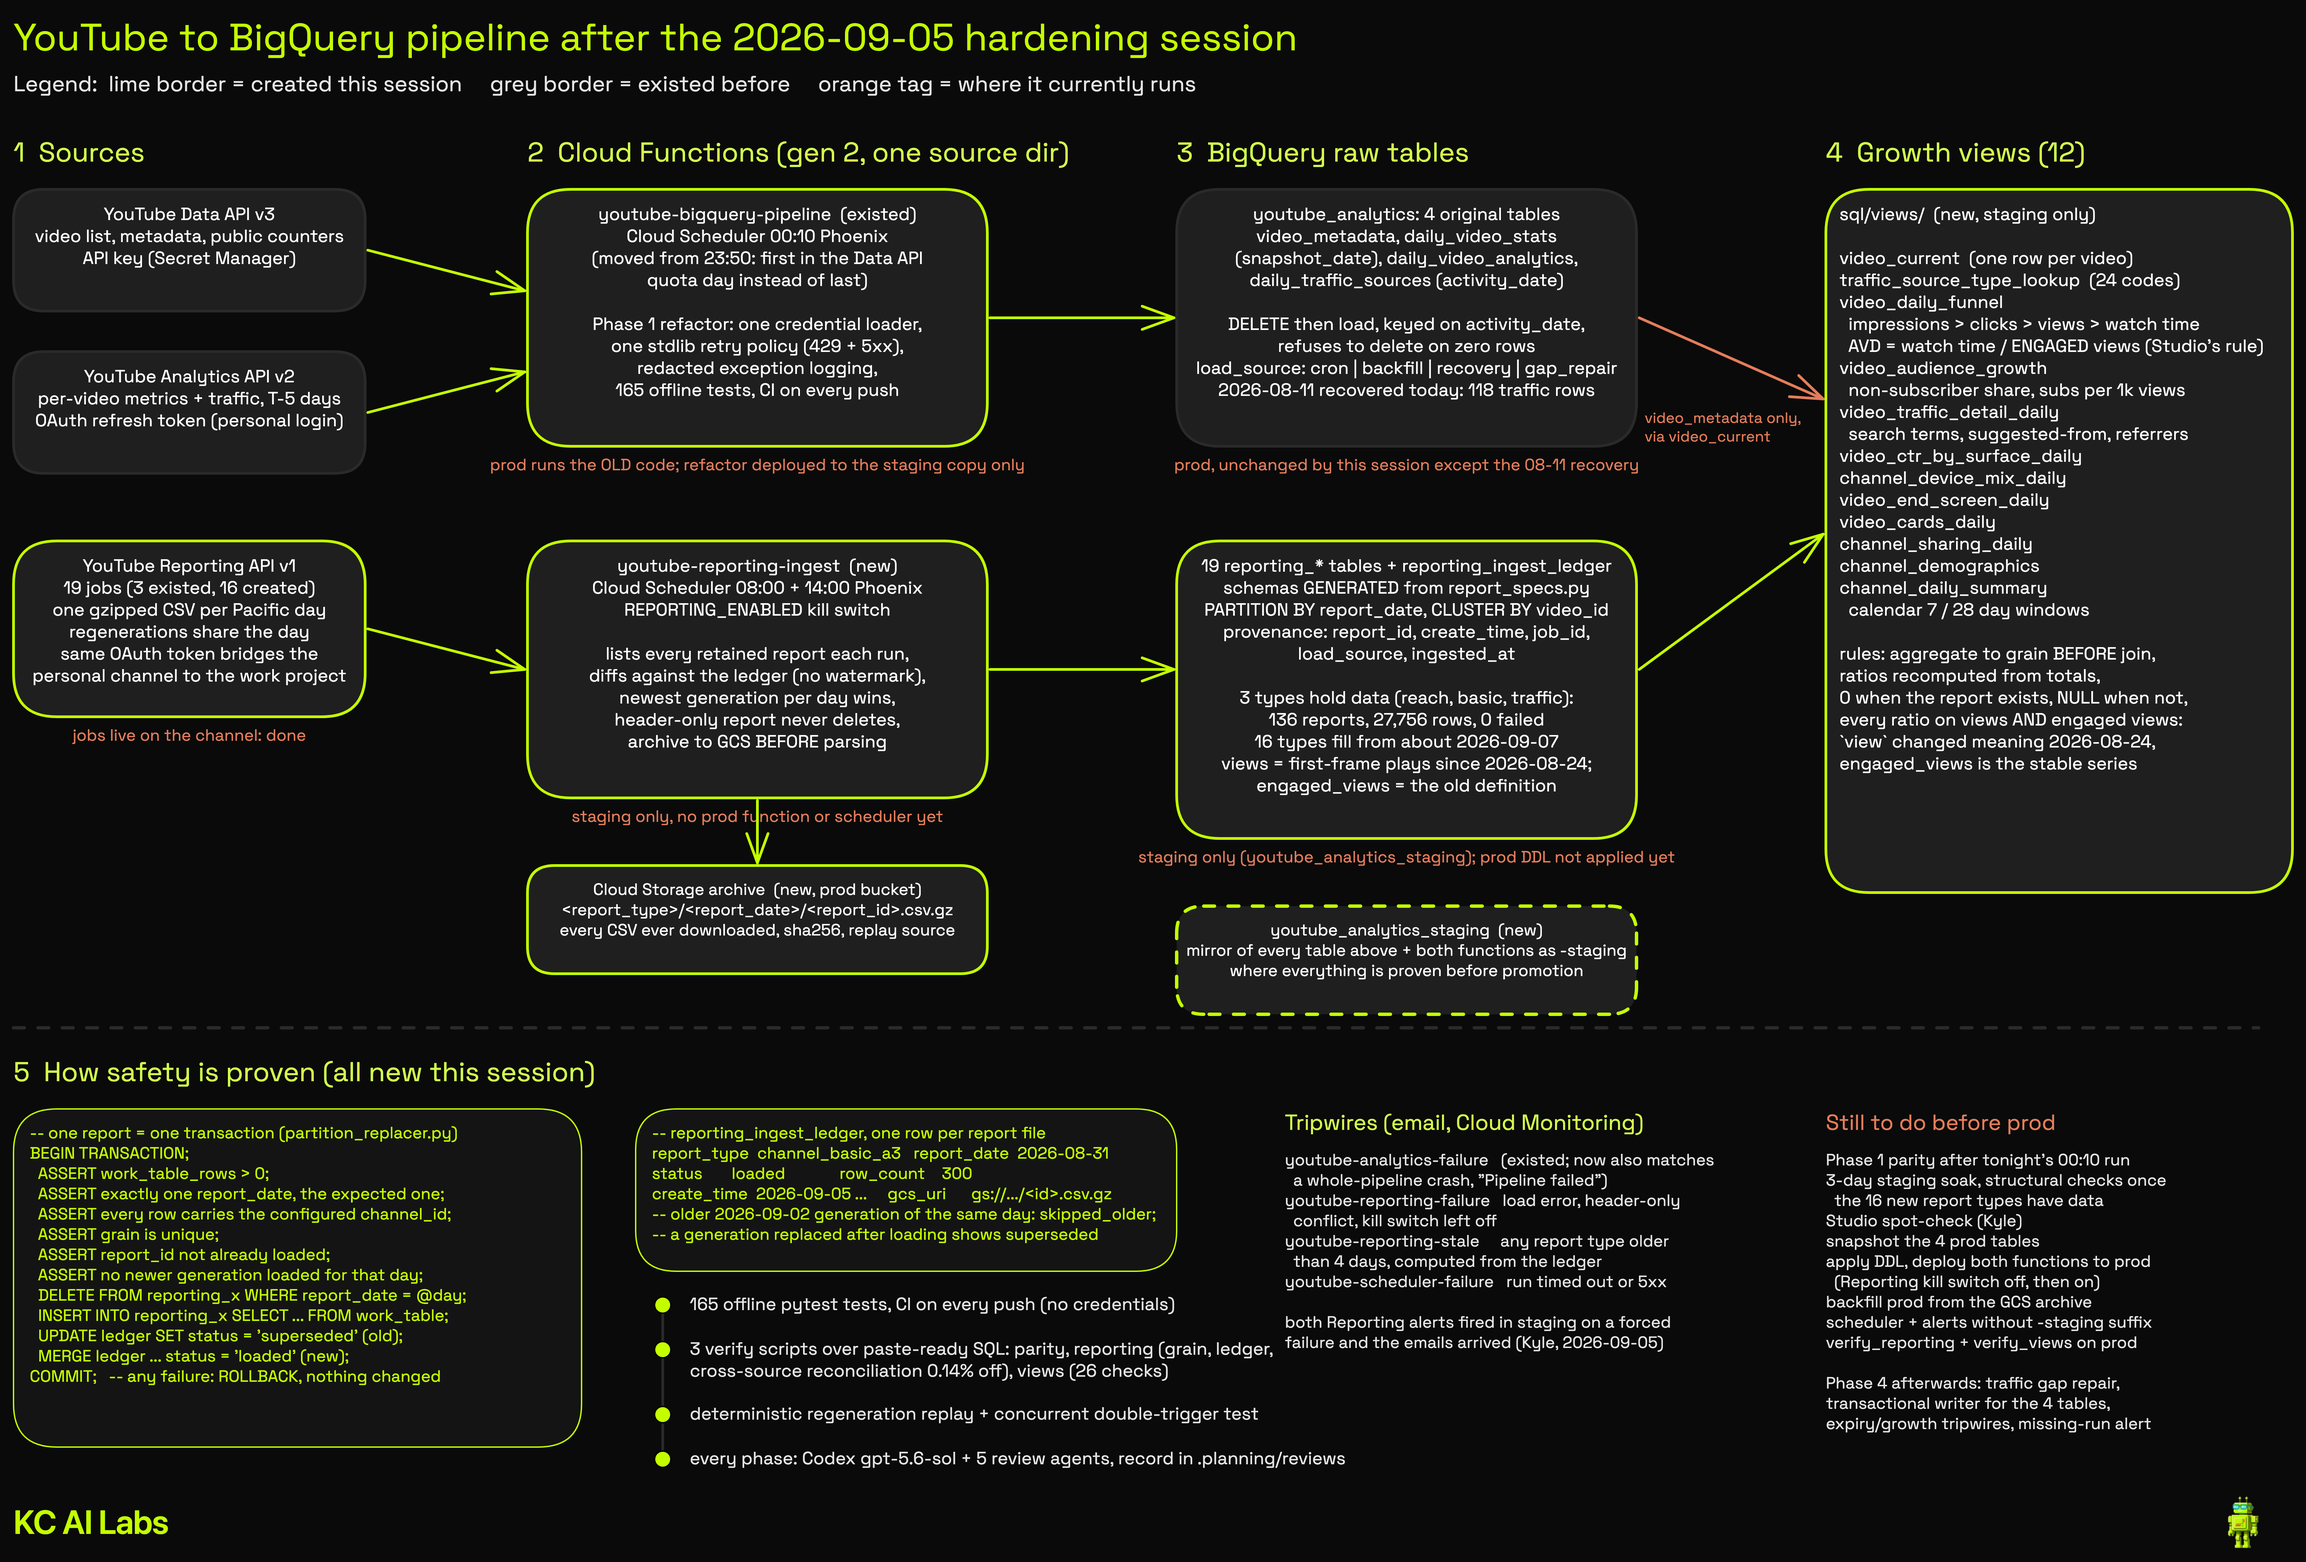
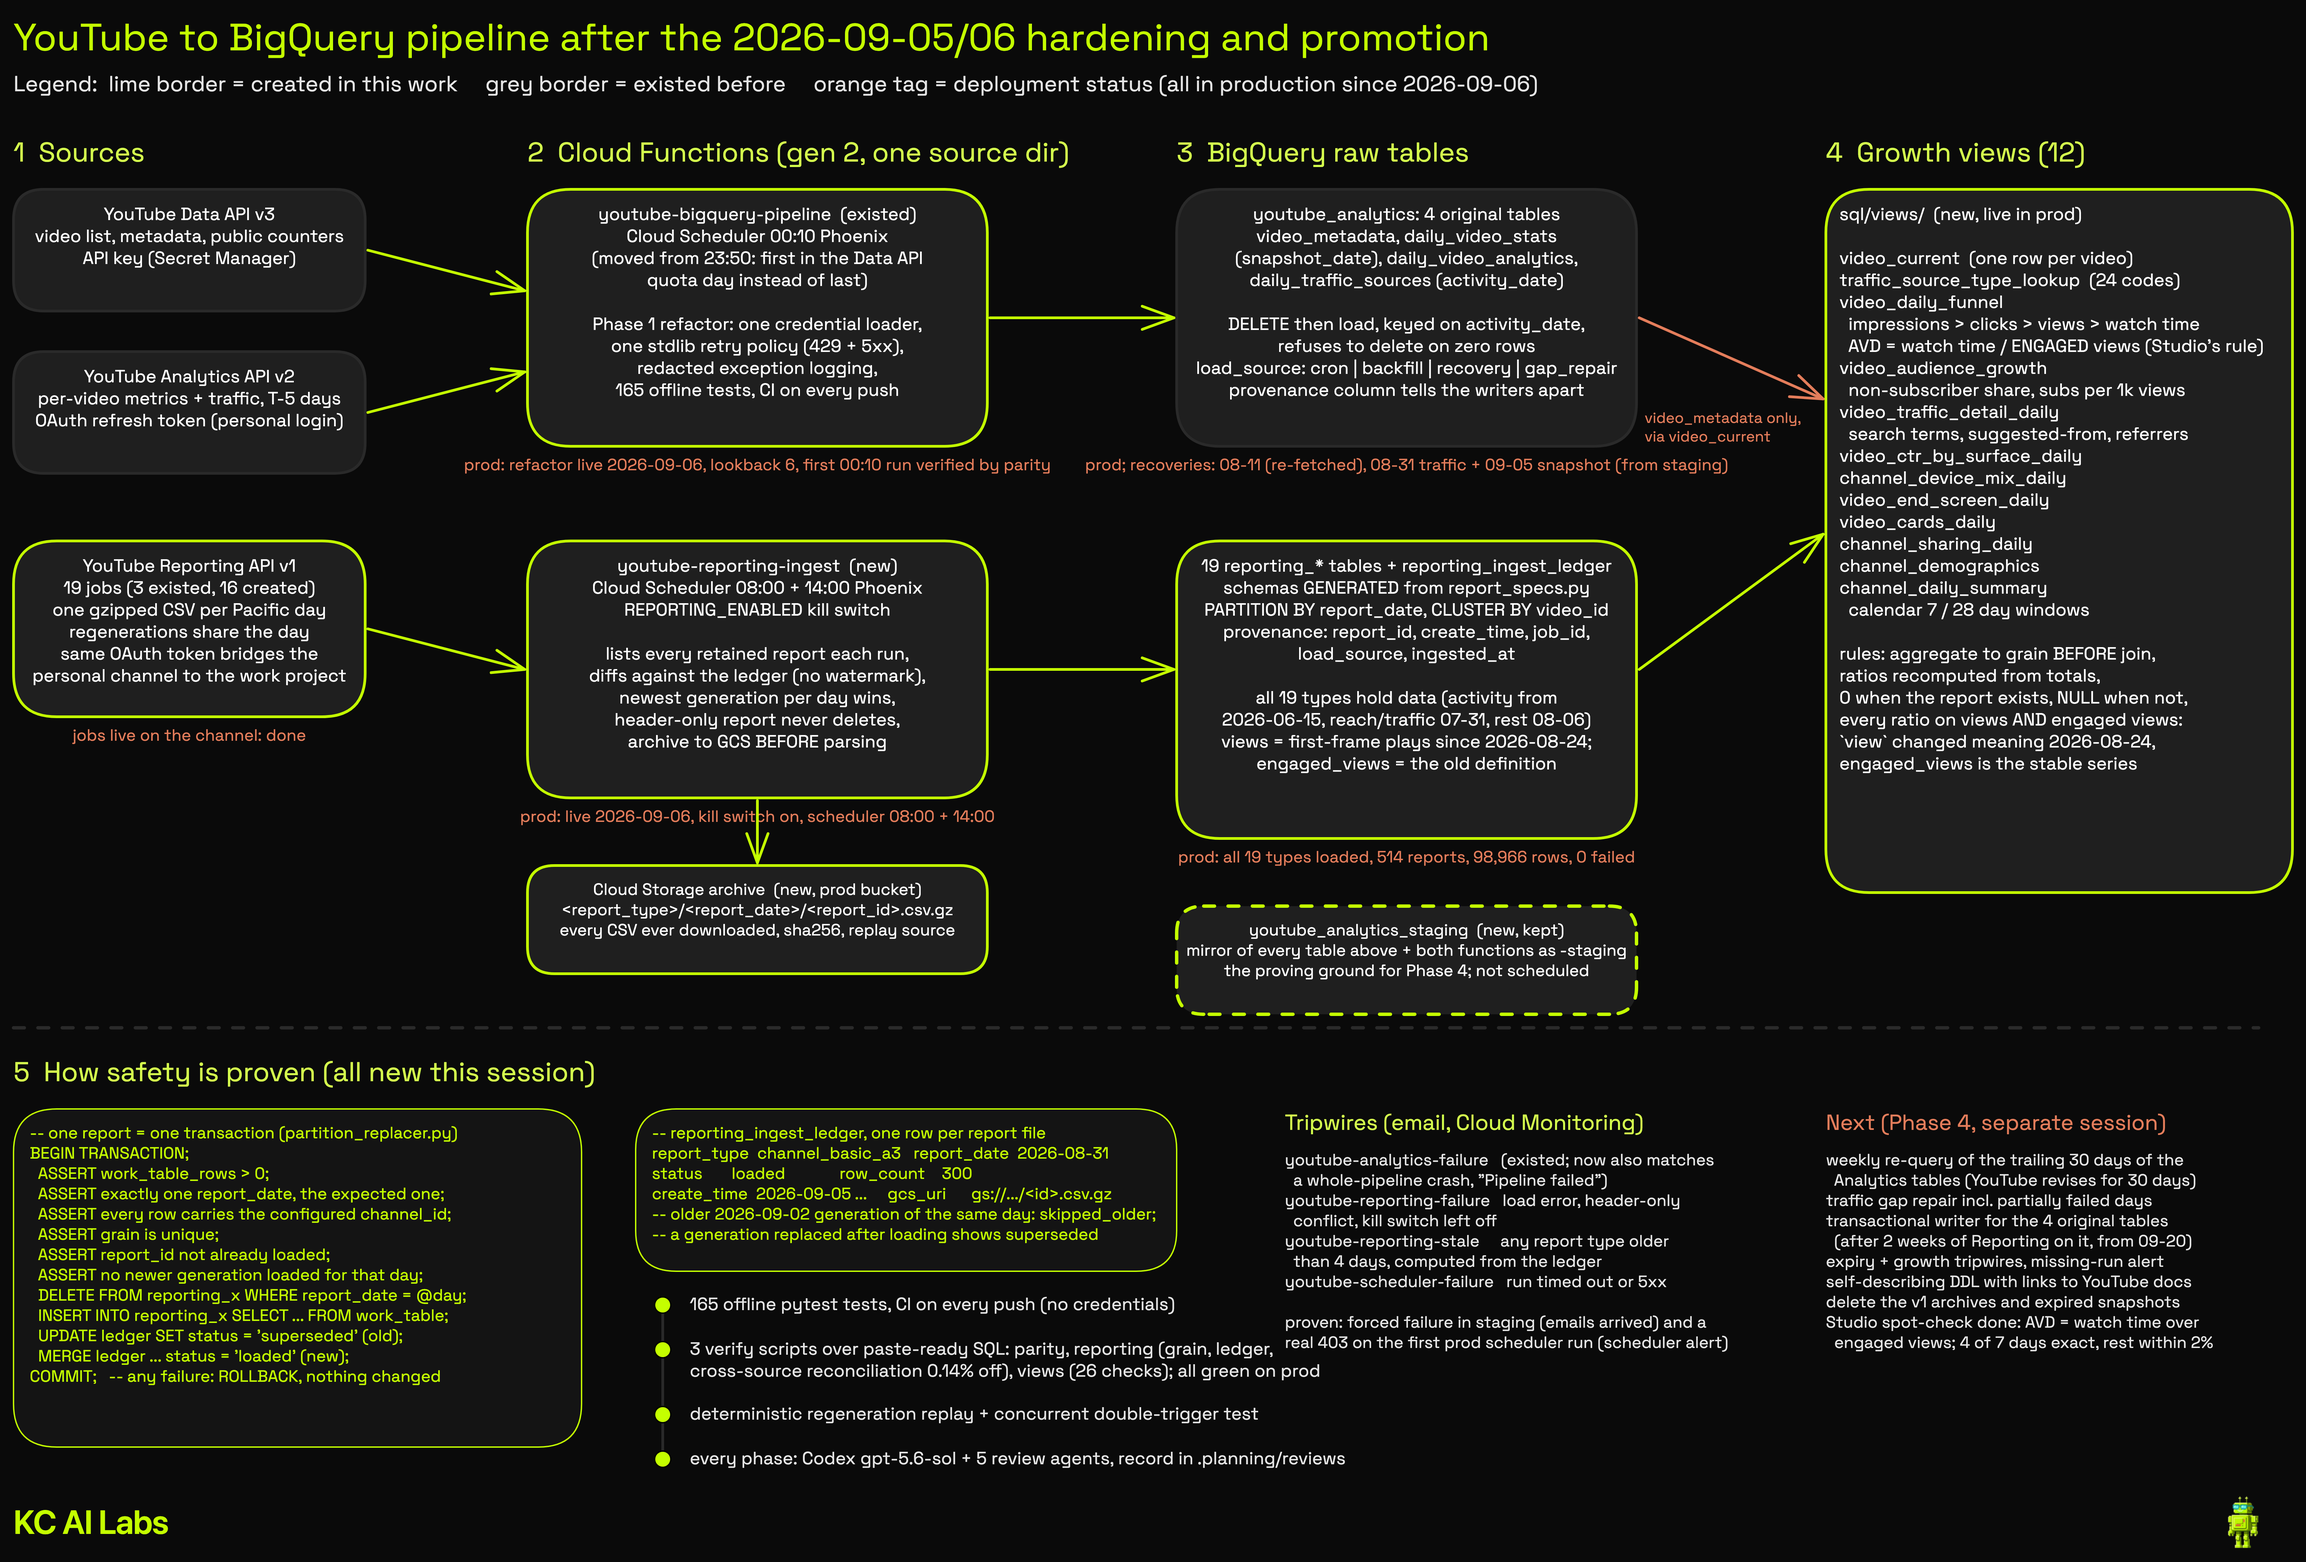
docs: diagram reflects the promoted state; adoption guide with an agent prompt for other channels (#19)

diff --git a/docs/adopt-for-your-channel.md b/docs/adopt-for-your-channel.md
@@ -1,0 +1,118 @@
+# Adopt this pipeline for your own channel
+
+Everything here is reproducible for any YouTube channel. Nothing in the repo is specific to the
+original channel: the project, dataset, region, channel id and alert address all come from
+environment variables, and the owner's values live in a gitignored folder. This page is the
+short path from "I found this repo" to "my channel's data is in my BigQuery", and it ends with
+a prompt you can hand to a coding agent (Claude Code, Codex, Gemini CLI or similar) to do the
+adaptation with you.
+
+## What you need before starting
+
+- A YouTube channel you own, and the Google account that owns it.
+- A Google Cloud project with billing enabled. Everything runs inside the free tier at a
+  personal-channel scale (two functions, three scheduler jobs, a few megabytes of storage and
+  well under 1 GB of BigQuery a month). The channel account and the cloud project can be
+  different Google accounts; the OAuth refresh token is what bridges them.
+- On your machine: `gcloud`, `bq`, Python 3.11 or newer, and `git`.
+
+## What you will end up with
+
+| Piece | What it does |
+|---|---|
+| Cloud Function `youtube-bigquery-pipeline` | Nightly snapshot of your video catalogue and public counters (Data API) and per-video daily metrics and traffic sources a few days back (Analytics API). |
+| Cloud Function `youtube-reporting-ingest` | Twice a day, loads every Reporting API bulk report YouTube has produced for your channel (19 report types: impressions and CTR, engaged views, traffic sources with search terms, devices, playback locations, demographics, cards, end screens, sharing, playlists). |
+| BigQuery dataset `youtube_analytics` | Four snapshot and activity tables, nineteen `reporting_*` tables, an ingest ledger, and twelve growth views. |
+| Cloud Storage bucket | Every Reporting API file ever downloaded, so history survives YouTube's 60-day retention. |
+| Four email alerts | Pipeline crash or empty analytics, Reporting load failure or conflict, stale report types, scheduler failures. |
+| Staging dataset and functions | A mirror where changes are proven before they touch production. |
+
+## The order that works
+
+The README's "Deployment (Step by Step)" section has the commands. This is the order and the
+reasons, so an agent or a person does not skip the step that makes the next one safe.
+
+1. **Copy `.env.example` to `.env` and fill it in.** Channel id (UC...), project, region, dataset
+   name, alert email. Never commit `.env`. Create `.internal/` for anything private (it is
+   gitignored); the repo's `CLAUDE.md` explains the public/private split.
+2. **Enable the APIs** (`setup/1_enable_apis.sh`).
+3. **Create the BigQuery dataset and tables** (`setup/2_create_bigquery.sh`). The Reporting
+   tables come from a generated DDL file; do not hand-edit them, edit `report_specs.py` and
+   regenerate.
+4. **OAuth once** (`setup/3_setup_oauth.sh`, `setup/oauth_helper.py`): create an OAuth client,
+   consent as the channel-owning account with the `yt-analytics.readonly` scope, store the
+   refresh token in Secret Manager. One token serves both the Analytics and the Reporting API.
+5. **Store the Data API key** in Secret Manager (`setup/4` reads it from there).
+6. **Create the Reporting jobs first, then archive** (`setup/7_create_reporting_jobs.py`, then
+   `setup/archive_reporting_raw.py`). Jobs backfill 30 days from creation and reports expire
+   60 days after generation, so create them on day one even if nothing else is ready.
+7. **Create staging** (`setup/8_create_staging.sh`) and deploy both functions there first
+   (`FUNCTION_NAME=...-staging BQ_DATASET=youtube_analytics_staging`). Run
+   `scripts/verify_reporting.sh youtube_analytics_staging` and
+   `scripts/verify_views.sh youtube_analytics_staging` until they are green.
+8. **Deploy to production**: the daily function (`setup/4_deploy_function.sh`), the ingest with
+   the kill switch off (`REPORTING_ENABLED=false setup/9_deploy_reporting_function.sh`),
+   backfill from the archive (`setup/backfill_reporting.py --dataset youtube_analytics
+   --from-gcs`), verify, then redeploy with the switch on and create the schedulers
+   (`setup/5_create_scheduler.sh` for each function) and alerts (`setup/6_setup_monitoring.sh`).
+9. **Create the views** (`setup/10_create_views.sh`) and compare a few numbers against YouTube
+   Studio using `docs/studio-comparison.md`. Studio is the source of truth; the guide says what
+   will and will not match, and why.
+
+## What to change, and what to leave alone
+
+Change: everything in `.env`; the alert email; the schedule times if your quota day or time
+zone differ (the nightly run is placed just after the Data API quota reset at Pacific midnight
+on purpose); `SHORTS_THRESHOLD_SECONDS` if you classify Shorts differently.
+
+Leave alone unless you know why: the writer's two properties (delete keyed on the activity
+date, refuse to delete when the API returned nothing), the in-transaction assertions in the
+Reporting replacer, the alert log strings (the monitoring script matches them literally and the
+tests pin them), and the lookback of 6 days (the Analytics API has nothing for the most recent
+three days).
+
+## Things that bit the original build, so you do not have to find them again
+
+- The Data API quota is per project and shared with every other tool using that project. One
+  bulk upload elsewhere can starve the nightly run.
+- YouTube changed what a "view" is on 2026-08-24 (counted from the first frame, every format)
+  and did not restate history. Use `engaged_views` for trends that cross that date; average
+  view duration in Studio is watch time over engaged views.
+- Moving a scheduler's time cancels the run in between; trigger the skipped slot by hand.
+- The refresh token uses a sensitive scope; keep the rotation procedure somewhere private.
+- Two credentials on your machine: `gcloud auth login` for the CLIs, `gcloud auth
+  application-default login` for the Python scripts. Both expire.
+
+## A prompt for your coding agent
+
+Paste this into Claude Code, Codex, or a similar agent opened in your clone of the repo. It is
+written so the agent reads the repo first, asks you only for what it cannot find, and never
+puts a secret or a channel-specific value into a tracked file.
+
+```text
+I want to run this repository's pipeline for my own YouTube channel. Work with me through it.
+
+First, read CLAUDE.md, README.md (the Architecture, Why Three YouTube APIs, BigQuery Schema and
+Deployment sections), docs/adopt-for-your-channel.md, .env.example and the setup/ scripts, in
+that order. Then tell me in plain language what this pipeline will collect for my channel, what
+it will cost, and what accounts and permissions it needs, before running anything.
+
+Rules for the whole session:
+- Ask me for values you cannot derive: my channel id, GCP project id, region, alert email, and
+  whether the channel and the cloud project are different Google accounts. Put them in .env and
+  in .internal/OWNER_CONFIG.md only; never in a tracked file, a commit message, or a log.
+- Run the setup in the order docs/adopt-for-your-channel.md gives, one step at a time, showing
+  me each command before it runs and its result after. Stop and tell me when a step needs
+  something only I can do (the OAuth consent screen in a browser, enabling billing).
+- Create the Reporting API jobs and run the archive script before anything else that can wait;
+  reports expire.
+- Deploy to the staging dataset and staging functions first, run both verify scripts there,
+  and show me the results. Only propose the production steps after staging is green, and ask
+  me before each production deploy or scheduler change.
+- Do not change the writer's delete-then-load invariants, the transaction assertions, or the
+  alert log strings. If something in the repo does not fit my channel, explain the trade-off
+  and ask, rather than editing silently.
+- When done, run scripts/verify_reporting.sh and scripts/verify_views.sh against production,
+  then walk me through docs/studio-comparison.md so I can check three numbers in YouTube
+  Studio myself.
+```

diff --git a/README.md b/README.md
@@ -129,6 +129,12 @@ The catch is retention: a report file exists for 60 days after YouTube generates
 
 ---
 
+## Running this for your own channel
+
+Nothing here is tied to the original channel. `docs/adopt-for-your-channel.md` is the short path for another channel owner: what you need, the order that keeps each step safe, what to change and what to leave alone, and a prompt you can paste into a coding agent to do the adaptation with you.
+
+---
+
 ## Prerequisites
 
 | Tool | Purpose | Install |
@@ -635,6 +641,8 @@ sql/
 tests/                         # offline pytest suite; python3 -m pytest tests/ -q
 docs/
   studio-comparison.md         # which YouTube Studio number to compare to which column
+  adopt-for-your-channel.md    # how another channel owner sets this up, with an agent prompt
+  diagrams/                    # architecture diagram (Excalidraw source and PNG)
 prompts/
   completed/
     001-youtube-bigquery-pipeline-plan.md   # Claude Code's 6-phase implementation plan
